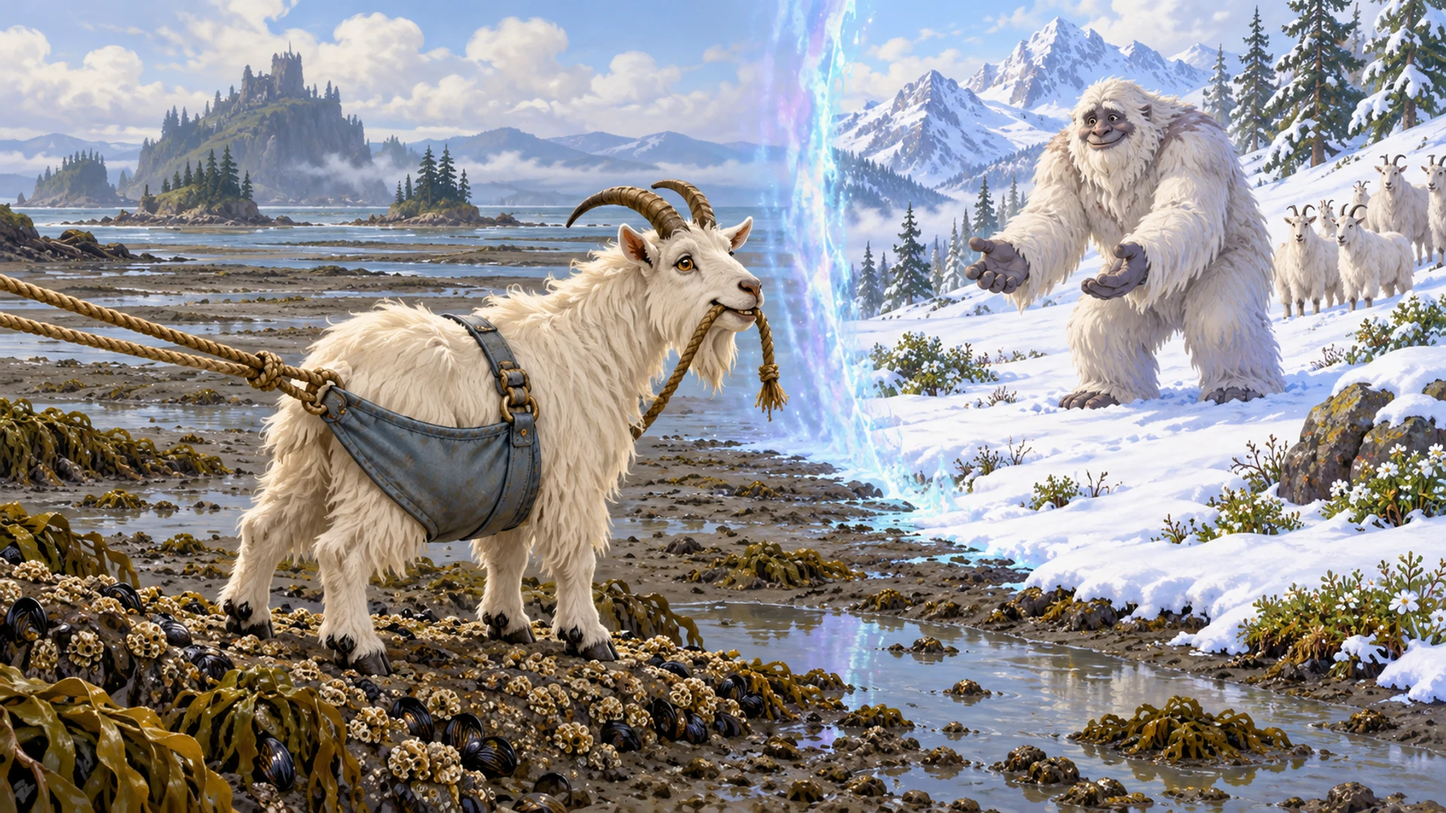
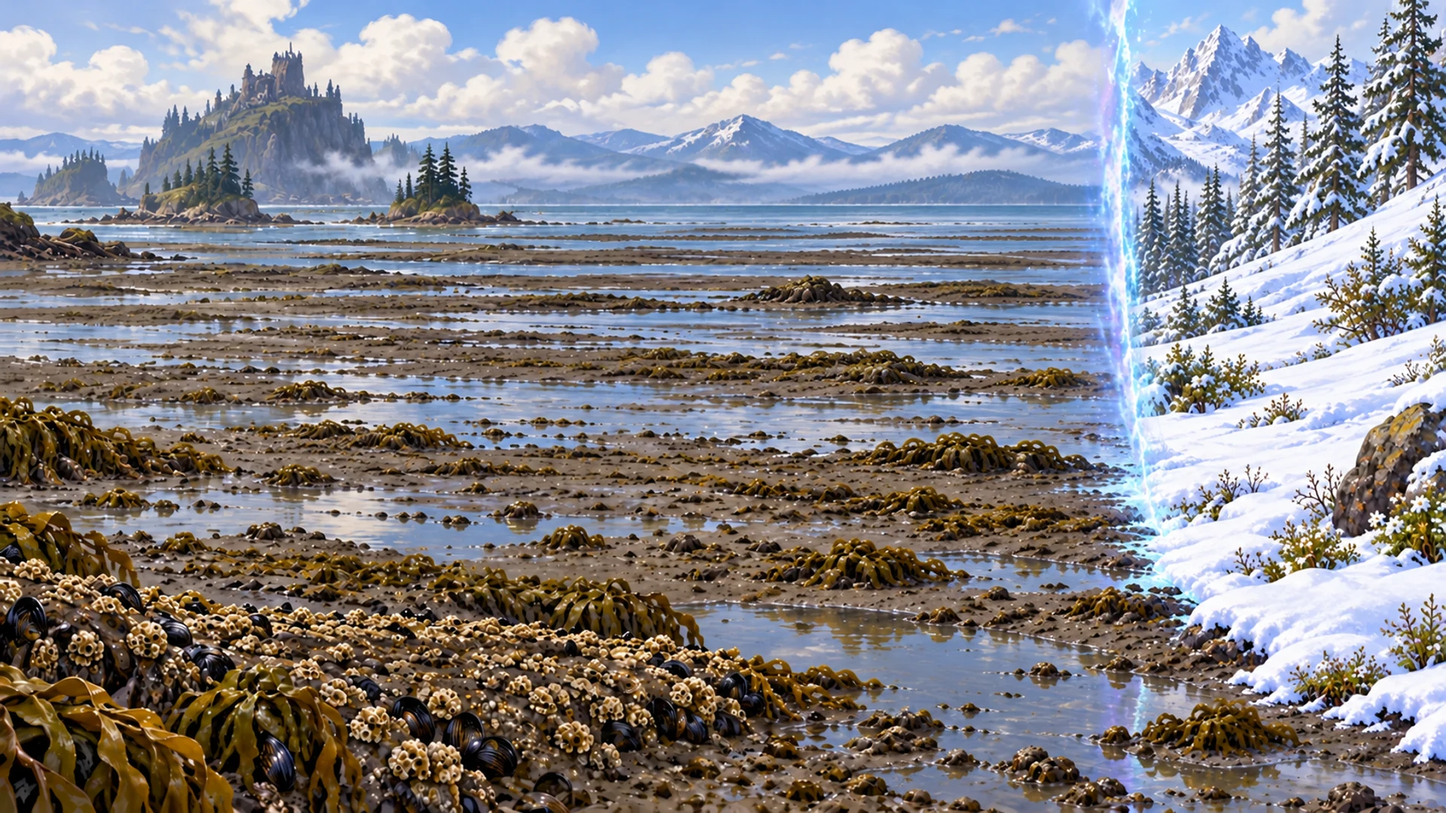
Keep crossing backdrop character-free and verify actual TV and phone scenes

diff --git a/docs/campaigns/continental-rift/rescue-art.md b/docs/campaigns/continental-rift/rescue-art.md
@@ -4,19 +4,27 @@ Generated with the built-in imagegen tool, 2026-10-27. Exported to opaque
 1920x1080 WebP at quality 88; existing backdrops remain available.
 
 - `assets/scenes/riftlight/stuttering-flats-goat-crossing.webp`: shown at the
-  herder reveal, signals and crossing choice. The goat is still on the Flats
-  side. No player heroes or deployed ramp lock in a party or route.
+  herder reveal, signals and crossing choice. The backdrop contains no characters;
+  the guide, adult goat and herder are separate reusable cast actors. The snowy
+  bank sits at the far right, leaving the guide/goat on the muddy side on TV.
 - `assets/scenes/riftlight/bone-yard-returning-pebble.webp`: shown during the
   boundary experiment and tracking activity. One returning pebble contrasts
   with the stationary turquoise-marked expedition plank.
 
 Final prompt set: painterly wide children's fantasy storybook illustrations,
 soft brushwork and readable natural terrain; no text, interface or player heroes.
-Goat scene: adult shaggy white horned goat on shell bank in broad cloth sling,
-gently mouthing rope; yeti herder waits across magical opening on snowy landing;
-no crossing underway or placed ramp. Yard scene: small pebble rolling uphill
+Crossing-setting edit: remove all goats, yeti, sling, straps and ropes; rebuild
+empty shell-bank mudflats and undisturbed snowy landing. Preserve the painterly
+landscape. Place a thin luminous rift rim around 79% of the image width, mudflat
+standing space to its left and snowy standing space at far right. No characters,
+props, text or interface; actors are rendered separately by the game.
+Yard scene: small pebble rolling uphill
 with downhill dust trail toward fossil ribs and ruins; marked wooden plank stays
 still beside boundary pool, warm ochre stone and turquoise water.
 
 Visual review: both establish the physical situation before interaction outcomes.
 The Yard image suggests motion; the tracking control supplies actual movement.
+
+PR #512 review correction: replaced the painted-in actors with empty terrain.
+Actual game captures are in [the visual review](../../reviews/riftlight-rescue-wave/README.md).
+The five affected scenes retain their existing cast lists and behavior.

diff --git a/docs/reviews/riftlight-rescue-wave/README.md b/docs/reviews/riftlight-rescue-wave/README.md
@@ -1,0 +1,29 @@
+# PR #512: crossing backdrop review
+
+The crossing backdrop is now character-free. The five scenes (`glimpse`,
+`signal`, `signal_visual`, `signal_relay`, `crossing`) keep the guide, adult goat
+and yeti herder in their existing cast lists. No behavior or cast data changed.
+The two banks are positioned for the actual TV actors: goat/guide on the flats,
+herder on the far-right snowy landing.
+
+These are captures of the real local server, client, Pixi stage and phone UI,
+not a composited mockup. An isolated temporary preview starts at this chapter
+(index 1 only in that preview), with one unicorn hero. Playtest jumps visit all
+five affected scenes. The recap was allowed to close, and the phone is on World.
+No shipped campaign unlock, order, index or player save was changed.
+
+- [Herder reveal, TV](glimpse-tv.png)
+- [Herder reveal, phone](glimpse-phone.png)
+- [Crossing choice, TV](crossing-tv.png)
+- [Crossing choice, phone / guide](crossing-phone.png)
+- [Crossing choice, phone / goat](crossing-phone-goat.png)
+- [Crossing choice, phone / herder](crossing-phone-herder.png)
+
+TV captures use 1920x1080; phone captures use 390x844. The phone intentionally
+shows one guest at a time through its existing carousel. Visual inspection checks
+that the background adds no duplicate animals or people and the actors remain
+readable. The phone's backdrop is cropped; the TV provides the full two-bank view.
+
+Validation: 22 focused art/runtime and Flats tests pass. The replacement backdrop
+is opaque 1920x1080 WebP, exported at quality 88. PR #512 now targets main after
+merging the current main containing #510; required CI reruns on the updated head.
